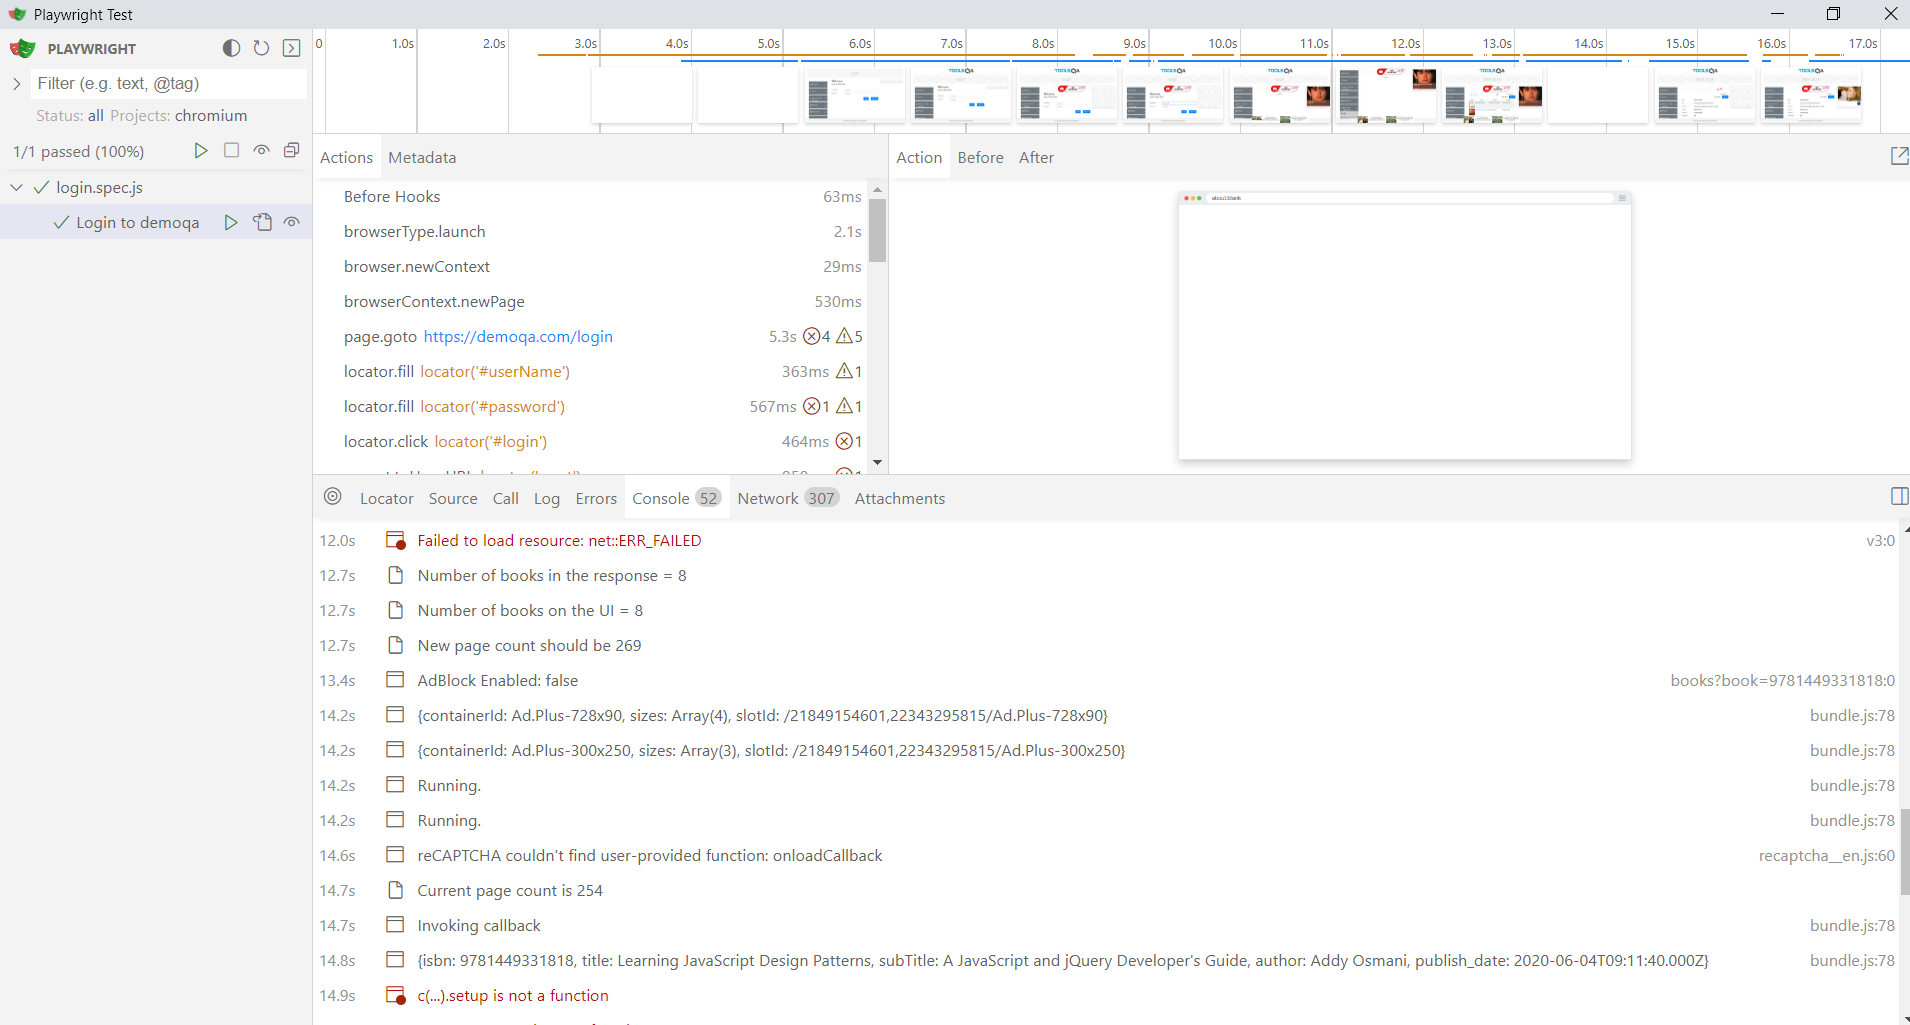
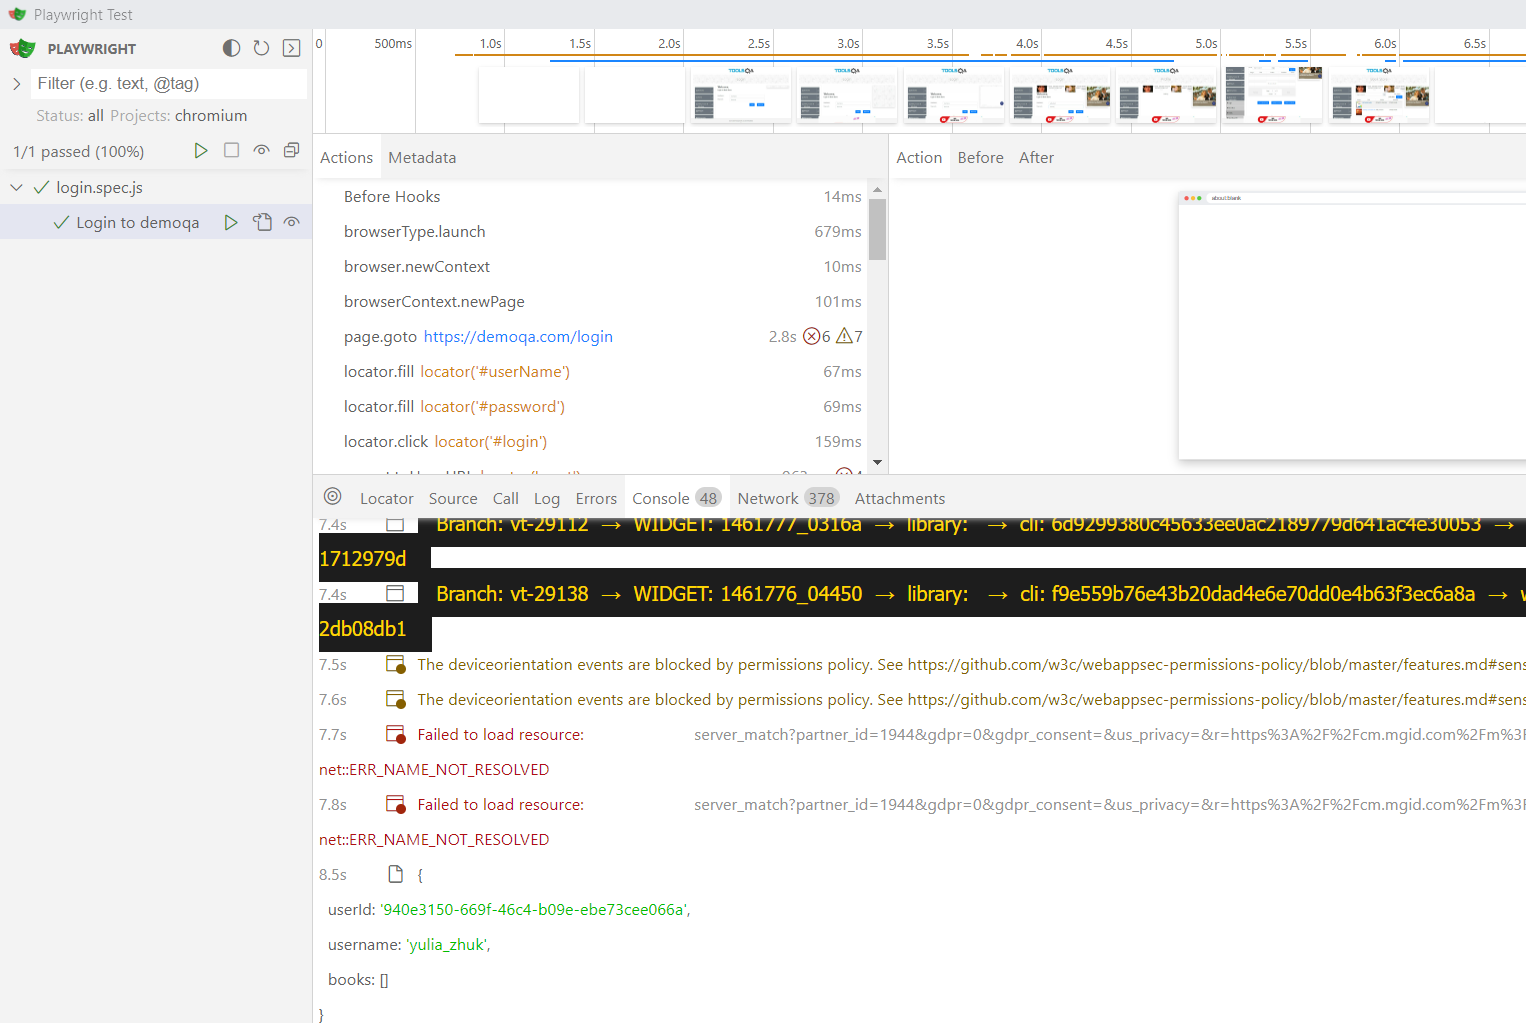
update playwright login test

diff --git a/tests/login.spec.js b/tests/login.spec.js
@@ -1,9 +1,10 @@
 const { test, expect } = require('@playwright/test');
-const playwright = require('playwright');
+const { chromium } = require('playwright');  // Or 'firefox' or 'webkit'.
 const userData = JSON.parse(JSON.stringify(require('../fixtures/users.json')));
 
 test('Login to demoqa', async () => {
-  const browser = await playwright.chromium.launch(); 
+  //launch a specific browser instance or
+  const browser = await chromium.launch(); 
 
   // Create a new incognito browser context
   const context = await browser.newContext(); 
@@ -21,6 +22,7 @@ test('Login to demoqa', async () => {
 
   await expect(page).toHaveURL(/.*profile/);
 
+  //cookies that affect those URLs are returned (in th context)
   let cookies = await context.cookies('https://demoqa.com/');
 
   await expect(cookies.find(c => c.name == 'userID').value).toBeTruthy();
@@ -37,16 +39,18 @@ test('Login to demoqa', async () => {
 
   const TOKEN = cookies.find(c => c.name == 'token').value;
 
+  //Once route is enabled, every request matching the url pattern will stall unless it's continued, fulfilled or aborted
   // Block .png and .jpeg images
   await page.route(/.(png|jpeg|img)$/, route => route.abort());
 
-  //Returns the matched response. 
+  //Returns the matched response
   const responsePromise = page.waitForResponse(response =>
     response.url() === 'https://demoqa.com/BookStore/v1/Books' && response.status() === 200
   );
 
   await page.locator('#gotoStore').click();
 
+  //await заставит интерпретатор JavaScript ждать до тех пор, пока промис справа от await не выполнится
   const booksResponse = await responsePromise;
 
   await expect(page).toHaveURL(/.*books/);
@@ -58,16 +62,14 @@ test('Login to demoqa', async () => {
 
   expect(booksResponse.status()).toBe(200);
 
-  const booksCountInResponse = await booksResponse.body().then(b => { 
+  //Returns the buffer with response body
+  //разобрать более подробно
+  const booksCountInResponse = await booksResponse.body().then(b => {
     let data = JSON.parse(b.toString()); 
     return data.books.length;
   });
-  
-  console.log(`Number of books in the response = ${booksCountInResponse}`);
 
   const booksCountOnUi = await page.locator('.rt-tbody>div img').count();
-
-  console.log(`Number of books on the UI = ${booksCountOnUi}`);
 
   expect(booksCountInResponse).toEqual(booksCountOnUi);
 
@@ -81,8 +83,6 @@ test('Login to demoqa', async () => {
     const response = await route.fetch();
     // Add a prefix to the title.
     let body = await response.text();
-
-    console.log(`Current page count is ${JSON.parse(body.toString()).pages}`);
 
     body = body.replace(JSON.parse(body.toString()).pages, newPageCount);
     route.fulfill({
@@ -104,7 +104,8 @@ test('Login to demoqa', async () => {
   //разобрать более подробно
   const response = await page.request.get(`https://demoqa.com/Account/v1/User/${USERID}`, {
     headers: {
-    'Authorization': `Bearer ${TOKEN}`, }
+    'Authorization': `Bearer ${TOKEN}`
+    }
   });
 
   console.log(await response.json());
@@ -112,7 +113,7 @@ test('Login to demoqa', async () => {
   //returns text representation of response body
   let body = await response.text(); 
 
-  console.log(body);
-
   expect(JSON.parse(body.toString()).username).toEqual(USERNAME);
+
+  expect(JSON.parse(body.toString()).books.length).toBe(0);
  });
